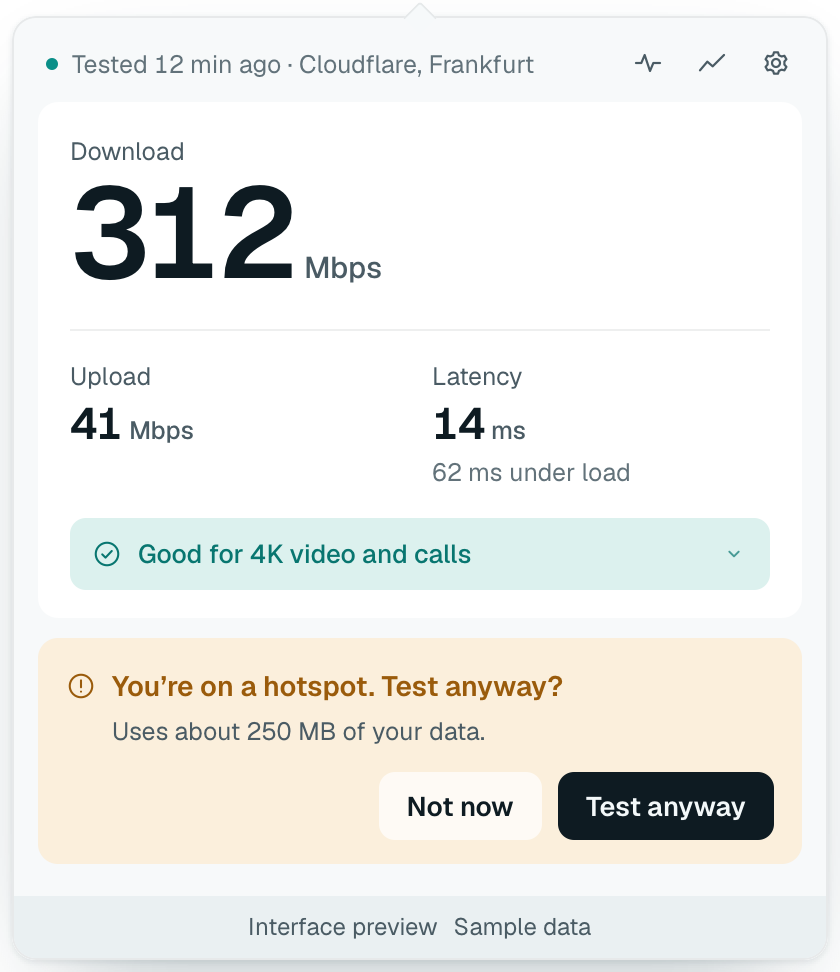
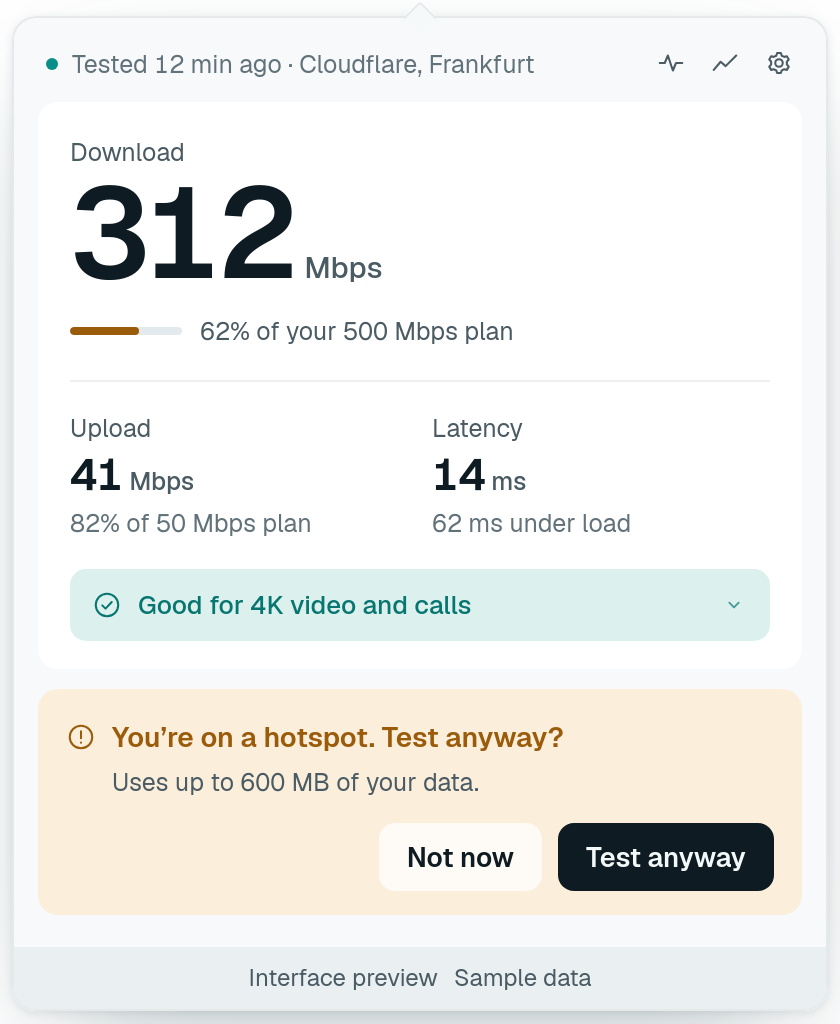
fix(core): show the most a test uses on a metered link
The data estimate comes from the last three results, which may be from
another network. After tests on a slow home line, a hotspot prompt said
"about 25 MB" for a test that could use hundreds. Weir keeps no history
per network yet, so on a metered link the estimate is now the ceiling,
"Uses up to 600 MB"; elsewhere it is unchanged. method.md said "on this
network"; it now says what Weir does. The demo and the metered
screenshot follow.

diff --git a/tests/e2e/popover.spec.ts b/tests/e2e/popover.spec.ts
@@ -54,11 +54,11 @@ for (const theme of themes) {
   test(`metered connection asks before testing in ${theme}`, async ({ page }, info) => {
     await page.clock.install()
     await page.goto(`/?demo=1&state=metered&theme=${theme}`)
-    await expect(page.getByText('Hotspot · Uses about 250 MB')).toBeVisible()
+    await expect(page.getByText('Hotspot · Uses up to 600 MB')).toBeVisible()
     await page.getByRole('button', { name: 'Test again' }).click()
     const dialog = page.getByRole('alertdialog')
     await expect(dialog).toContainText('You’re on a hotspot. Test anyway?')
-    await expect(dialog).toContainText('Uses about 250 MB of your data.')
+    await expect(dialog).toContainText('Uses up to 600 MB of your data.')
     await expect(page.getByRole('button', { name: 'Not now' })).toBeFocused()
     await shoot(page, 'metered', info.outputPath(`metered-${theme}.png`))
     await page.keyboard.press('Escape')

diff --git a/src/lib/demo.ts b/src/lib/demo.ts
@@ -68,7 +68,10 @@ export function createDemoView(state: string | null, now = Date.now(), error: st
   if (scenario === 'testing-upload') {
     view.testing = { phase: 'upload', phaseMs: 2_900, liveMbps: 39.6, downloadMbps: 312.4, latencyMs: 14, loadedMs: 51, bytesUsed: 214_000_000, colo: 'FRA' }
   }
-  if (scenario === 'metered') view.network.metered = 'hotspot'
+  if (scenario === 'metered') {
+    view.network.metered = 'hotspot'
+    view.estimate = { upTo: true, mb: 600 }
+  }
   if (scenario.startsWith('check-')) view.diagnosis = demoDiagnosis(scenario.slice(6), now)
   if (scenario === 'checking') view.checking = true
   if (scenario === 'outage') view.outageSinceMs = new Date(now).setHours(14, 2, 0, 0)

diff --git a/src-tauri/src/runtime.rs b/src-tauri/src/runtime.rs
@@ -50,7 +50,11 @@ pub struct View {
     pub testing: Option<Progress>,
     pub last: Option<Report>,
     pub failure: Option<Failure>,
+    /// From recent results, except on a metered link, where those results may
+    /// come from a slower network and understate: then the most a test uses.
     pub estimate: Estimate,
+    #[serde(skip)]
+    pub(crate) recent_estimate: Estimate,
     pub network: Network,
     pub meaning: Option<Meaning>,
     /// The last result against the speed the provider sells, when it is set.
@@ -72,6 +76,7 @@ impl Default for View {
             last: None,
             failure: None,
             estimate: data_estimate(&[]).into(),
+            recent_estimate: data_estimate(&[]).into(),
             network: Network::default(),
             meaning: None,
             plan: None,
@@ -88,6 +93,11 @@ impl Default for View {
 impl View {
     /// Fields that follow from the last result and the settings.
     fn derive(&mut self) {
+        self.estimate = if self.network.metered.is_some() {
+            data_estimate(&[]).into()
+        } else {
+            self.recent_estimate.clone()
+        };
         self.meaning = self.last.as_ref().map(meaning);
         self.plan = self
             .last
@@ -142,7 +152,7 @@ impl Runtime {
         let mut view = View {
             last: history.last_report().cloned(),
             history_count: history.len(),
-            estimate: data_estimate(&history.speeds(3)).into(),
+            recent_estimate: data_estimate(&history.speeds(3)).into(),
             notice: (!notes.is_empty()).then(|| notes.join(" ")),
             settings,
             ..View::default()
@@ -306,7 +316,7 @@ impl Runtime {
         drop(history);
         self.change(app, |view| {
             view.history_count = 0;
-            view.estimate = data_estimate(&[]).into();
+            view.recent_estimate = data_estimate(&[]).into();
         });
         Ok(())
     }
@@ -452,7 +462,7 @@ impl Runtime {
                 view.testing = None;
                 if let Some((count, estimate, problem)) = recorded {
                     view.history_count = count;
-                    view.estimate = estimate;
+                    view.recent_estimate = estimate;
                     view.notice = problem.or(view.notice.take());
                 }
                 match outcome {
@@ -477,4 +487,23 @@ impl Runtime {
 
 pub fn runtime(app: &AppHandle) -> Arc<Runtime> {
     app.state::<Arc<Runtime>>().inner().clone()
+}
+
+#[cfg(test)]
+mod tests {
+    use super::*;
+    use crate::core::network::Metered;
+
+    #[test]
+    fn metered_link_shows_the_most_a_test_uses() {
+        let mut view = View {
+            recent_estimate: data_estimate(&[(20.0, 5.0)]).into(),
+            ..View::default()
+        };
+        view.derive();
+        assert!(!view.estimate.up_to && view.estimate.mb < 100);
+        view.network.metered = Some(Metered::Hotspot);
+        view.derive();
+        assert!(view.estimate.up_to && view.estimate.mb == 600);
+    }
 }

diff --git a/src-tauri/src/core/stats.rs b/src-tauri/src/core/stats.rs
@@ -425,7 +425,7 @@ fn round_up(mb: f64) -> u32 {
     ((mb / step).ceil() * step).max(step) as u32
 }
 
-/// Data a test will use, from recent results on this network `(down, up)` in Mbps.
+/// Data a test will use, from recent results `(down, up)` in Mbps.
 pub fn data_estimate(recent: &[(f64, f64)]) -> DataEstimate {
     let last: Vec<&(f64, f64)> = recent.iter().rev().take(3).collect();
     let down = median(&last.iter().map(|pair| pair.0).collect::<Vec<_>>());

diff --git a/docs/method.md b/docs/method.md
@@ -93,7 +93,7 @@ Not reported in v0.1. Cloudflare's loss test needs a TURN server; ICMP loss misr
 ## Data use
 
 - Ceiling: 380 MB down + 190 MB up + 1 MB probes, plus 5 % for headers ≈ **600 MB**.
-- **Estimate before a test:** `E = (min(380, R_d/8 × 7) + min(190, R_u/8 × 6) + 1) × 1.05` MB, where `R` is the median of the last 3 results on this network (Mbps). No history → "Uses up to 600 MB". Rounded up to 5 MB below 50 MB, else up to 10 MB, so the estimate never understates.
+- **Estimate before a test:** `E = (min(380, R_d/8 × 7) + min(190, R_u/8 × 6) + 1) × 1.05` MB, where `R` is the median of the last 3 results (Mbps). No history, or a metered link (whose recent results may come from a slower network) → "Uses up to 600 MB". Rounded up to 5 MB below 50 MB, else up to 10 MB, so the estimate never understates.
   - 100/20 Mbps → about 110 MB. 300/40 → about 310 MB. 1000/100 → about 480 MB.
 - After the test: actual bytes counted, "Used 212 MB".
 - Metered, hotspot or Low Data Mode → the Test button asks first: "You're on a hotspot. Test anyway? Uses about 110 MB".
